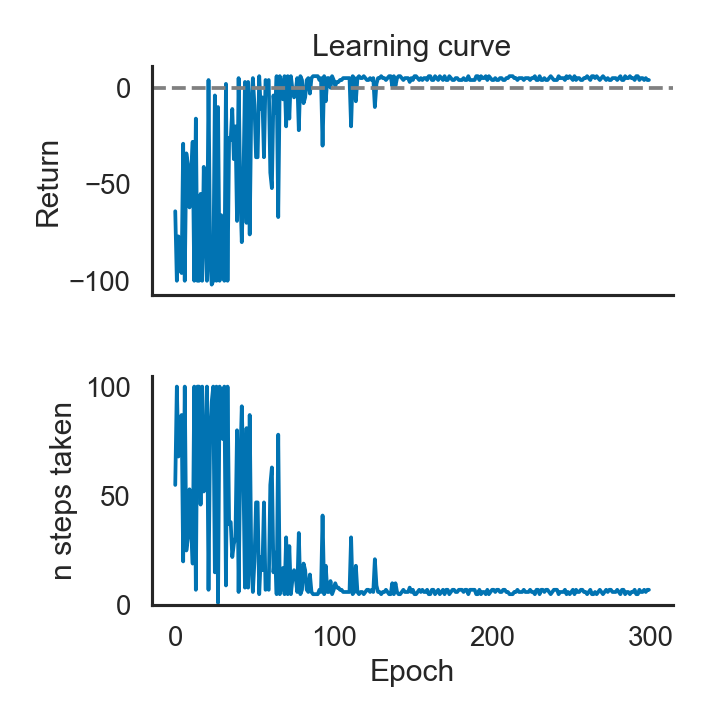
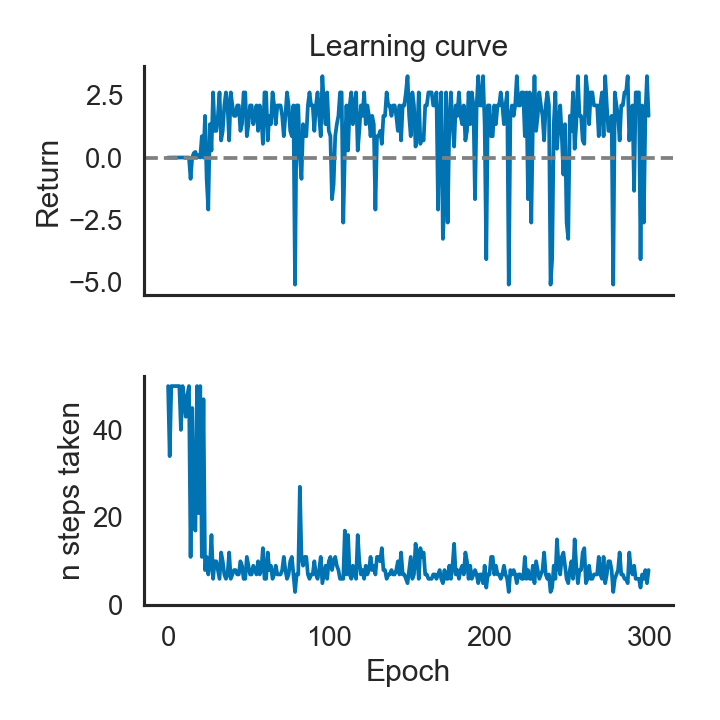
bomb -> optional

diff --git a/src/run_lqn_agent.py b/src/run_lqn_agent.py
@@ -15,20 +15,18 @@ sns.set(style='white', context='talk', palette='colorblind')
 img_dir = '../imgs'
 
 # define env and agent
-env = GridWorld()
+env = GridWorld(True)
 state_dim = env.height * env.width
 n_actions = len(ACTIONS)
 agent = Agent(state_dim, n_actions)
 
 # training params
 n_trials = 300
-max_steps = 100
-epsilon = 0.3
-epsilon_decay = .95
-alpha = 0.2
-gamma = .9
+max_steps = 50
+epsilon = .2
+alpha = 0.3
+gamma = .8
 optimizer = optim.SGD(agent.parameters(), lr=alpha)
-
 
 '''train
 '''
@@ -62,14 +60,13 @@ for i in range(n_trials):
         loss = F.smooth_l1_loss(q_t[:, a_t], q_expected)
         optimizer.zero_grad()
         loss.backward()
-        for param in agent.parameters():
-            param.grad.data.clamp_(-1, 1)
+        # for param in agent.parameters():
+        #     param.grad.data.clamp_(-1, 1)
         optimizer.step()
 
         # update R and n steps
         step += 1
-        cumulative_reward += r_t
-        epsilon *= epsilon_decay
+        cumulative_reward += r_t * gamma**step
 
         # termination condition
         if env.is_terminal():
@@ -130,7 +127,7 @@ while step < max_steps:
     q_t = agent.forward(s_t)
     r_t = env.step(torch.argmax(q_t))
     step += 1
-    cumulative_reward += r_t
+    cumulative_reward += r_t * gamma**step
     locs.append(env.get_agent_loc())
     if env.is_terminal():
         break
@@ -140,11 +137,12 @@ color_intensity = np.linspace(.1, 1, step)
 path = np.sum([color_intensity[t]*locs[t] for t in range(step)], axis=0)
 
 f, ax = plt.subplots(1, 1, figsize=(5, 5))
-ax.set_title(f'Steps taken = {step}; Return = {cumulative_reward}')
+ax.set_title(f'Steps taken = {step}; Return = %.2f' % cumulative_reward)
 ax.imshow(path, cmap='Blues', aspect='auto')
 goal = Circle(env.gold_loc[::-1], radius=.1, color='red')
-bomb = Circle(env.bomb_loc[::-1], radius=.1, color='black')
 ax.add_patch(goal)
-ax.add_patch(bomb)
+if env.has_bomb:
+    bomb = Circle(env.bomb_loc[::-1], radius=.1, color='black')
+    ax.add_patch(bomb)
 f.tight_layout()
 f.savefig(os.path.join(img_dir, 'path.png'), dpi=120)

diff --git a/src/run_lqn_agent_minimal.py b/src/run_lqn_agent_minimal.py
@@ -18,11 +18,10 @@ n_actions = len(ACTIONS)
 W = np.zeros((state_dim, n_actions))
 
 # training params
-n_trials = 300
-max_steps = 100
-epsilon = 0.3
-epsilon_decay = .95
-alpha = 0.2
+n_trials = 100
+max_steps = 50
+epsilon = 0.2
+alpha = 0.1
 gamma = .9
 
 
@@ -60,8 +59,7 @@ for i in range(n_trials):
 
         # update R and n steps
         step += 1
-        cumulative_reward += r_t
-        epsilon *= epsilon_decay
+        cumulative_reward += r_t * gamma**step
 
         # termination condition
         if env.is_terminal():
@@ -119,7 +117,7 @@ while step < max_steps:
     q_t = np.dot(s_t, W)
     r_t = env.step(np.argmax(q_t))
     step += 1
-    cumulative_reward += r_t
+    cumulative_reward += r_t * gamma**step
     locs.append(env.get_agent_loc())
     if env.is_terminal():
         break
@@ -129,10 +127,11 @@ color_intensity = np.linspace(.1, 1, step)
 path = np.sum([color_intensity[t]*locs[t] for t in range(step)], axis=0)
 
 f, ax = plt.subplots(1, 1, figsize=(5, 5))
-ax.set_title(f'Steps taken = {step}; Return = {cumulative_reward}')
+ax.set_title(f'Steps taken = {step}; Return = %.2f' % cumulative_reward)
 ax.imshow(path, cmap='Blues', aspect='auto')
 goal = Circle(env.gold_loc[::-1], radius=.1, color='red')
-bomb = Circle(env.bomb_loc[::-1], radius=.1, color='black')
 ax.add_patch(goal)
-ax.add_patch(bomb)
+if env.has_bomb:
+    bomb = Circle(env.bomb_loc[::-1], radius=.1, color='black')
+    ax.add_patch(bomb)
 f.tight_layout()

diff --git a/src/GridWorld.py b/src/GridWorld.py
@@ -9,18 +9,21 @@ SIDE_LEN = 5
 
 class GridWorld:
     # Initialise starting data
-    def __init__(self):
+    def __init__(self, has_bomb=False):
         # Set information about the gridworld
         self.height = self.width = SIDE_LEN
         self.n_locs = self.height*self.width
+        # define the state->reward function
+        self.SR_func = np.zeros((self.height, self.width))
         # Set locations for the bomb and the gold
         self.gold_loc = np.array([0, 3])
-        self.bomb_loc = np.array([1, 3])
-        self.terminal_states = [self.bomb_loc, self.gold_loc]
-        # define the state->reward function
-        self.SR_func = np.zeros((self.height, self.width)) - 1
-        self.SR_func[tuple(self.bomb_loc)] = -10
         self.SR_func[tuple(self.gold_loc)] = 10
+        self.terminal_states = [self.gold_loc]
+        self.has_bomb = has_bomb
+        if has_bomb:
+            self.bomb_loc = np.array([1, 3])
+            self.SR_func[tuple(self.bomb_loc)] = -10
+            self.terminal_states.append(self.bomb_loc)
         # init agent location
         self.reset()
 
